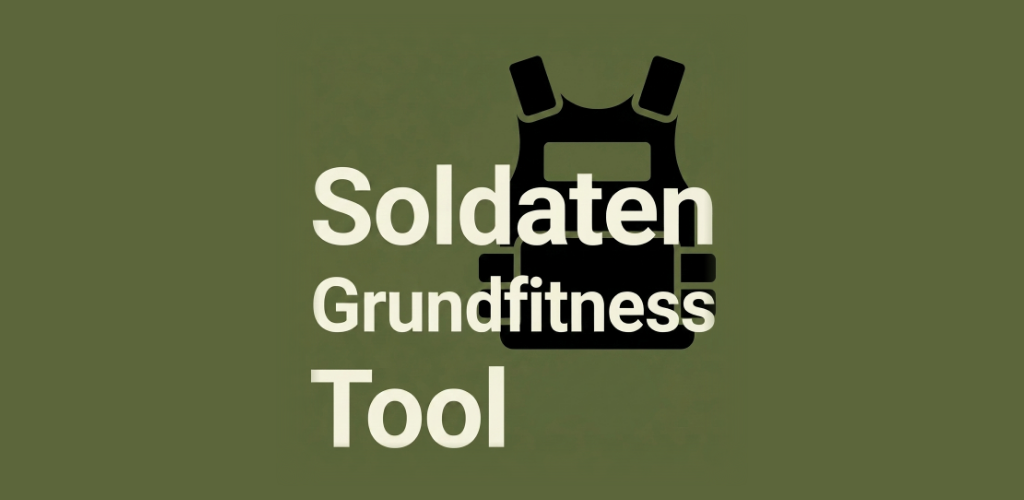
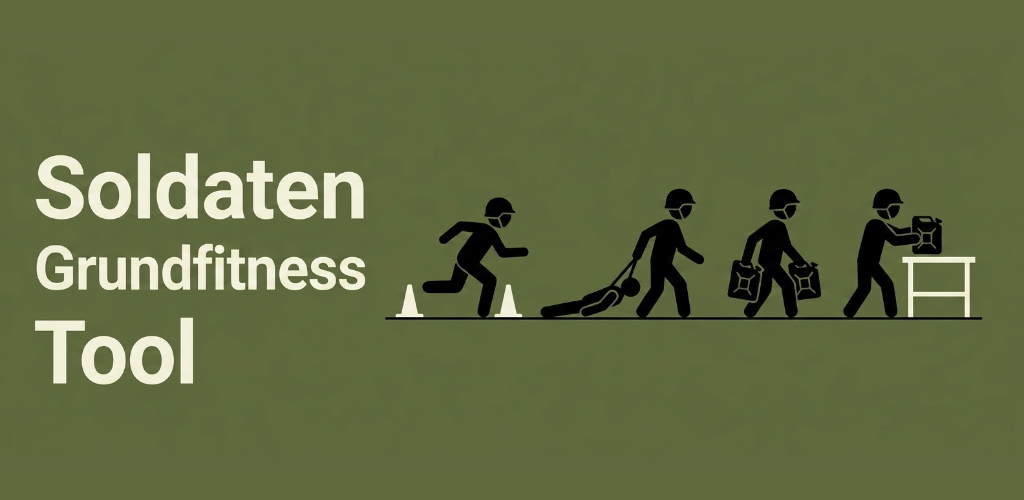
Feature-Grafik neu: Schriftzug plus Piktogramm-Reihe der vier SGT-Aufgaben
Statt des reinen Logos zeigt die Feature-Grafik jetzt links den Logo-
Schriftzug und rechts die vier Aufgaben als Piktogramm-Szene (Slalom,
Dummy-Ziehen, Kanister-Tragen, Heben auf die Ablage) im Stil der
Stationsskizzen. Exakt 1024×500, Beschreibung in docs/store-texte.md angepasst.

Claude-Session: https://claude.ai/code/session_01PdfETpCrDVWTGWxwVEEoxJ

Changed region(s): [[0.0312, 0.09, 0.9688, 0.72], [0.2812, 0.72, 0.5, 0.9], [0.0312, 0.63, 0.1875, 0.78]]

diff --git a/docs/store-texte.md b/docs/store-texte.md
@@ -61,9 +61,9 @@ Alle Grafiken liegen fertig unter `docs/store-grafiken/`:
 (gerahmte Screenshots mit Überschrift, Motive siehe unten).
 
 - **App-Icon 512×512**: liegt bereit unter `icons/icon-512.png`
-- **Feature-Grafik 1024×500**: Logo bündig auf exakt gleichfarbigem Hintergrund –
-  Farbwert des Logo-Hintergrunds: **#5C663B** (exakt aus dem Logo, identisch mit
-  der Adaptive-Icon-Hintergrundfarbe)
+- **Feature-Grafik 1024×500**: Logo-Schriftzug links, rechts die vier
+  SGT-Aufgaben als Piktogramm-Reihe (Slalom, Ziehen, Tragen, Heben) auf
+  Olivgrün – liegt fertig unter `docs/store-grafiken/feature-grafik-1024x500.png`
 - **Screenshots**: eigene Motive und andere Überschriften als bei BFT/PFT, z. B.:
   1. Teilnehmer-Ansicht mit Ampel-Ergebnis („Zeiten rein, Ampel ablesen“)
   2. Kategoriegrenzen-Aufklapper („Alle Zielzeiten auf einen Blick“)
